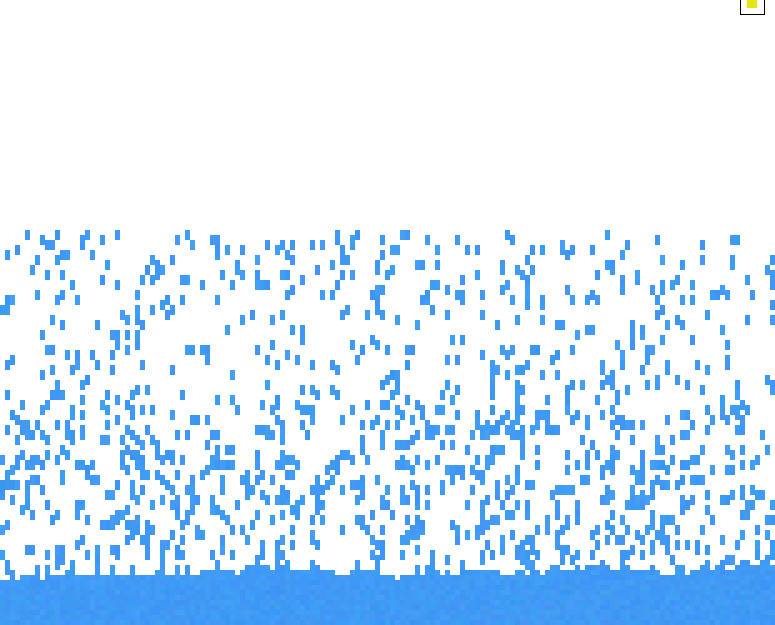
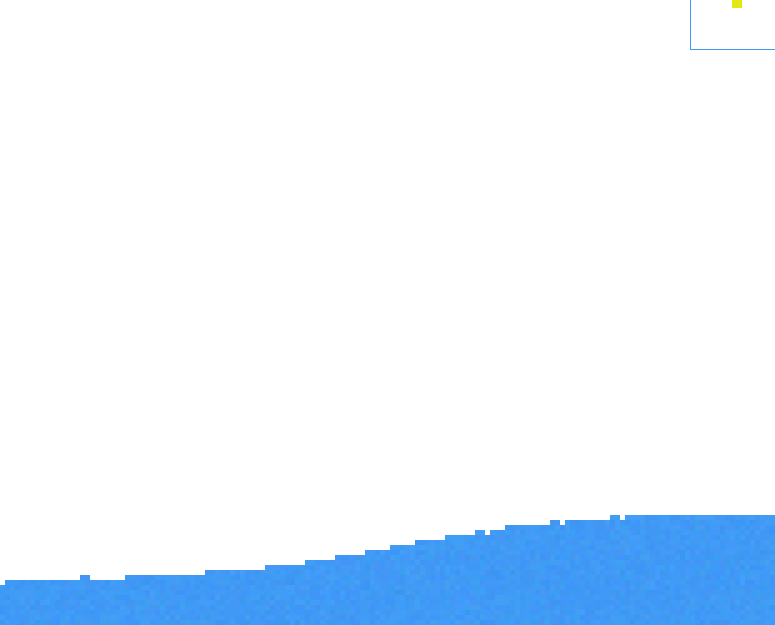
made liquid.move better
when check if move on a side if possible if it is not never check that side again.
tests before 200 frames took 40 seconds total and liquid.move took 9 seconds. now 25 seconds with liquid.move taking 5 seconds

diff --git a/sandbox/objects/liquid.py b/sandbox/objects/liquid.py
@@ -18,10 +18,11 @@ class Liquid:
         - move down left/ down right
         - move left/ right
         """
+        cols = len(board[self.y])
 
         down = self.y < len(board) - 1
         left = self.x > 0
-        right = self.x < len(board[self.y]) - 1
+        right = self.x < cols - 1
 
         # check move down
         if down and board[self.y + 1][self.x].mass < self.mass:
@@ -43,19 +44,22 @@ class Liquid:
 
         for i in range(1, self.wetness):
             left = left and self.x > i and board[self.y][self.x - i].type != "solid"
+            max_x = cols - i
             right = (
-                right
-                and self.x < len(board[self.y]) - i
-                and board[self.y][self.x + i].type != "solid"
+                right and self.x < max_x and board[self.y][self.x + i].type != "solid"
             )
             # check move left
             if left and board[self.y][self.x - i].mass < self.mass:
                 if type(board[self.y][self.x - i]) == Air:
                     moves.append((self.x - i, self.y))
+                else:
+                    left = False
             # check move right
             if right and board[self.y][self.x + i].mass < self.mass:
                 if type(board[self.y][self.x + i]) == Air:
                     moves.append((self.x + i, self.y))
+                else:
+                    right = False
 
             # choose move
             if len(moves) > 0:

diff --git a/menu/loading.py b/menu/loading.py
@@ -7,6 +7,8 @@ from random import randint
  loading screen for transitions
  not needed for ascetics
 """
+
+
 def run(win, time=100000):
     # init pygame stuff
     font = pygame.font.SysFont(None, 50)
@@ -14,7 +16,7 @@ def run(win, time=100000):
 
     # render loading text
     loading_text = font.render("LOADING ", True, (160, 0, 0))
-    size = img.get_size()
+    size = loading_text.get_size()
 
     # angle betwwen loading dot cirle thing
     theata = 0
@@ -45,7 +47,7 @@ def run(win, time=100000):
         # update screen
         pygame.display.flip()
         clock.tick(30)
-        
+
         # handle exiting
         for event in pygame.event.get():
             if event.type == pygame.QUIT:

diff --git a/sandbox/sim.py b/sandbox/sim.py
@@ -14,7 +14,7 @@ def get_sub_win(win, board):
 
 def time():
     pygame.init()
-    win = pygame.display.set_mode((WIDTH, HEIGHT))
+    win = pygame.display.set_mode((WIDTH, HEIGHT), flags=pygame.HIDDEN)
     run_sim(win, slot=(0, "profiling"))
 
 
@@ -40,7 +40,7 @@ def run_sim(win, slot=(0, "empty"), RAIN=True, index=0, size=3, pause=False):
     counter = itertools.count()
     for fnum in counter:
         # max profile time
-        if board_data == "profiling" and fnum >= 300:
+        if board_data == "profiling" and fnum >= 200:
             pygame.quit()
             return
         # make frame num stable if paused

diff --git a/menu/make_buttons.py b/menu/make_buttons.py
@@ -27,7 +27,7 @@ def make_menu_buttons(data, xoff=0, yoff=-100):
 
     return [
         Button(
-                x, top_y + (button_height + gap) * index, button_width, button_height, *i
-                )
+            x, top_y + (button_height + gap) * index, button_width, button_height, *i
+        )
         for index, i in enumerate(data)
     ]

diff --git a/sandbox/objects/water.py b/sandbox/objects/water.py
@@ -28,7 +28,7 @@ class Water(Particle, Liquid):
         Liquid.__init__(self)
 
         self.update_colour()
-        self.wetness = 9
+        self.wetness = 7
         self.make_steam = make_steam
 
     def check_lava(self, board):

diff --git a/menu/menu_button.py b/menu/menu_button.py
@@ -58,7 +58,6 @@ class Slot_Button:
         if self.rect.collidepoint(pos):
             if pygame.mouse.get_pressed()[0] and not self.clicked:
                 return self.mode
-    
 
     def up(self):
         self.clicked = True

diff --git a/menu/slot_selection.py b/menu/slot_selection.py
@@ -12,6 +12,7 @@ class Slots:
      - checking for clicks -> handling click:
          - only allowing one button to be pressed at a times
     """
+
     def __init__(self):
         gap = WIDTH / 10
         slot_width = 50
